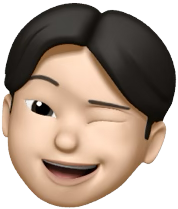
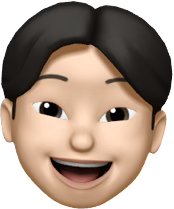
Animated Memoji

diff --git a/script.js b/script.js
@@ -72,6 +72,7 @@ document.addEventListener("DOMContentLoaded", function() {
 
 document.addEventListener('DOMContentLoaded', (event) => {
     const memoji = document.querySelector('.memoji');
+    const memojiBlink = document.querySelector('.memoji-blink');
     const cloud = document.querySelector('.cloud');
 
     memoji.addEventListener('mouseover', () => {
@@ -80,6 +81,16 @@ document.addEventListener('DOMContentLoaded', (event) => {
     });
 
     memoji.addEventListener('mouseout', () => {
+        cloud.classList.remove('fade-in');
+        cloud.classList.add('fade-out');
+    });
+
+    memojiBlink.addEventListener('mouseover', () => {
+        cloud.classList.remove('fade-out');
+        cloud.classList.add('fade-in');
+    });
+
+    memojiBlink.addEventListener('mouseout', () => {
         cloud.classList.remove('fade-in');
         cloud.classList.add('fade-out');
     });

diff --git a/index.html b/index.html
@@ -343,9 +343,9 @@
                     <div class="text-cloud"><p class="hellocloud">Thanks for visiting my website</p></div>
                     <div class="text-cloud-triangle"></div>
                 </div>
-
                 <div class="contactimg">
                     <img src="images/memoji.png" alt="memoji" class="memoji" draggable="false" oncontextmenu="return false;">
+                    <img src="images/memoji-blink.png" alt="memoji" class="memoji-blink" draggable="false" oncontextmenu="return false;">
                 </div>
             </div>
             

diff --git a/css/contact.css b/css/contact.css
@@ -66,7 +66,29 @@
 
 .memoji {
     height: 90px;
+    display: block;
+    transition: display 0.3s ease;
+    opacity: 1;
 }
+
+.memoji-blink {
+    height: 90px;
+    display: none;
+    opacity: 0;
+    transition: opacity 0.3s ease;
+}
+
+
+.contactimg:hover .memoji {
+    display: none;
+    opacity: 0;
+}
+
+.contactimg:hover .memoji-blink {
+    display: block;
+    opacity: 1;
+}
+
 
 .contactinfo2{
     margin-left: 15px;
